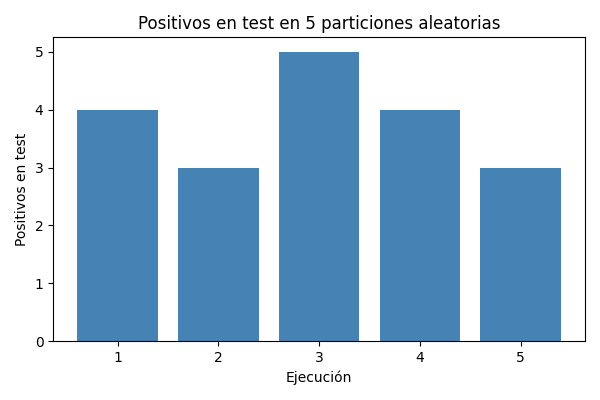
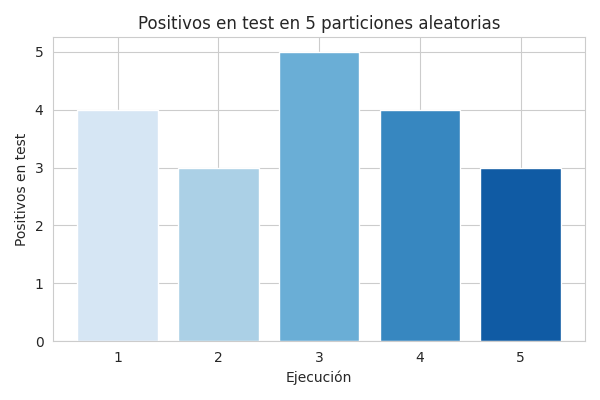
feat: update graphics.py

diff --git a/P3-documentos/python/graficas.py b/P3-documentos/python/graficas.py
@@ -3,23 +3,23 @@ import matplotlib.pyplot as plt
 import seaborn as sns
 import os
 
-# Crear carpeta outputs si no existe
-os.makedirs("outputs", exist_ok=True)
+
+sns.set_style("whitegrid")
 
 # ============================
 # TAREA 1 — Gráfica positivos test
 # ============================
 
-df1 = pd.read_csv("outputs/tarea1_resultados.csv")
+df1 = pd.read_csv("../outputs/tarea1_resultados.csv")
 
 plt.figure(figsize=(6,4))
-plt.bar(df1["ejecucion"], df1["positivos_test"], color="steelblue")
+plt.bar(df1["ejecucion"], df1["positivos_test"], color=sns.color_palette("Blues", 5))
 plt.xlabel("Ejecución")
 plt.ylabel("Positivos en test")
 plt.title("Positivos en test en 5 particiones aleatorias")
 plt.xticks(df1["ejecucion"])
 plt.tight_layout()
-plt.savefig("outputs/tarea1_positivos_test_aleatorio.png")
+plt.savefig("../outputs/tarea1_positivos_test_aleatorio.png")
 plt.close()
 
 
@@ -27,17 +27,17 @@ plt.close()
 # TAREA 2 — Proporción por fold
 # ============================
 
-df2 = pd.read_csv("outputs/tarea2_folds.csv")
+df2 = pd.read_csv("../outputs/tarea2_folds.csv")
 
 plt.figure(figsize=(6,4))
-plt.plot(df2["fold"], df2["proporcion_clase1"], marker="o", color="darkgreen")
+plt.plot(df2["fold"], df2["proporcion_clase1"], marker="o", color=sns.color_palette("Blues", 8)[5])
 plt.xlabel("Fold")
 plt.ylabel("Proporción clase 1")
 plt.title("Proporción de clase 1 por fold (StratifiedKFold)")
 plt.ylim(0, 0.05)
 plt.xticks(df2["fold"])
 plt.tight_layout()
-plt.savefig("outputs/tarea2_proporcion_folds_estratificado.png")
+plt.savefig("../outputs/tarea2_proporcion_folds_estratificado.png")
 plt.close()
 
 
@@ -45,61 +45,104 @@ plt.close()
 # TAREA 3 — Boxplots Accuracy y F1
 # ============================
 
-df3 = pd.read_csv("outputs/tarea3_metricas.csv")
+df3 = pd.read_csv("../outputs/tarea3_metricas.csv")
 
-# Accuracy
+# ----------------------------
+# 1. Accuracy — puntos con barras de error
+# ----------------------------
 plt.figure(figsize=(6,4))
-plt.bar(df3["metodo"], df3["accuracy_media"], yerr=df3["accuracy_std"],
-        capsize=5, color=["orange", "purple"])
+plt.errorbar(
+    df3["metodo"],
+    df3["accuracy_media"],
+    yerr=df3["accuracy_std"],
+    fmt="o",
+    capsize=6,
+    markersize=9,
+    linewidth=2,
+    color=sns.color_palette("Blues", 5)[3],
+    ecolor=sns.color_palette("Blues", 5)[1]
+)
 plt.ylabel("Accuracy")
-plt.title("Accuracy: media y desviación")
+plt.title("Accuracy: media y desviación típica")
 plt.tight_layout()
-plt.savefig("outputs/tarea3_boxplot_accuracy.png")
+plt.savefig("../outputs/tarea3_accuracy_errorpoints.png")
 plt.close()
 
-# F1
+# ----------------------------
+# 2. F1 — puntos con barras de error
+# ----------------------------
 plt.figure(figsize=(6,4))
-plt.bar(df3["metodo"], df3["f1_media"], yerr=df3["f1_std"],
-        capsize=5, color=["orange", "purple"])
+plt.errorbar(
+    df3["metodo"],
+    df3["f1_media"],
+    yerr=df3["f1_std"],
+    fmt="o",
+    capsize=6,
+    markersize=9,
+    linewidth=2,
+    color=sns.color_palette("Blues", 5)[4],
+    ecolor=sns.color_palette("Blues", 5)[2]
+)
 plt.ylabel("F1-score")
-plt.title("F1-score: media y desviación")
+plt.title("F1-score: media y desviación típica")
 plt.tight_layout()
-plt.savefig("outputs/tarea3_boxplot_f1.png")
+plt.savefig("../outputs/tarea3_f1_errorpoints.png")
 plt.close()
 
-
+# ----------------------------
+# 3. Gráfica de barras — desviaciones típicas
+# ----------------------------
+plt.figure(figsize=(6,4))
+plt.bar(
+    df3["metodo"],
+    df3["accuracy_std"],
+    color=sns.color_palette("Blues", 5)[2],
+    alpha=0.8,
+    label="Accuracy std"
+)
+plt.bar(
+    df3["metodo"],
+    df3["f1_std"],
+    color=sns.color_palette("Blues", 5)[4],
+    alpha=0.8,
+    label="F1 std"
+)
+plt.ylabel("Desviación típica")
+plt.title("Comparativa de desviación típica (Accuracy y F1)")
+plt.legend()
+plt.tight_layout()
+plt.savefig("../outputs/tarea3_std_barras.png")
+plt.close()
 # ============================
 # TAREA 4 — Leakage
 # ============================
 
-df4 = pd.read_csv("outputs/tarea4_comparativa.csv")
+df4 = pd.read_csv("../outputs/tarea4_comparativa.csv")
 
 # Accuracy con y sin trampa
 plt.figure(figsize=(6,4))
-plt.bar(df4["escenario"], df4["accuracy"], color=["red", "green"])
+plt.bar(df4["escenario"], df4["accuracy"], color=sns.color_palette("Blues", 3))
 plt.ylabel("Accuracy")
 plt.title("Accuracy con y sin variable trampa")
 plt.tight_layout()
-plt.savefig("outputs/tarea4_accuracy_leakage.png")
+plt.savefig("../outputs/tarea4_accuracy_leakage.png")
 plt.close()
 
 # Correlaciones
-df = pd.read_csv("data/pacientes_riesgo.csv")
+df = pd.read_csv("../data/pacientes_riesgo.csv")
 corr = df.corr(numeric_only=True)["Clase"].sort_values(ascending=False)
 
 plt.figure(figsize=(7,4))
 sns.barplot(
     x=corr.index,
     y=corr.values,
-    hue=corr.index,    
-    palette="viridis",
-    legend=False    
+    palette="Blues"
 )
 plt.xticks(rotation=45)
 plt.ylabel("Correlación con Clase")
 plt.title("Correlaciones con la clase (detección de leakage)")
 plt.tight_layout()
-plt.savefig("outputs/tarea4_correlaciones_leakage.png")
+plt.savefig("../outputs/tarea4_correlaciones_leakage.png")
 plt.close()
 
-print("✔ Todas las gráficas se han generado correctamente en outputs/")
+print("Todas las gráficas se han generado correctamente en tonos azules.")

diff --git a/P3-documentos/docs/Cuaderno_Laboratorio_P3_template.tex b/P3-documentos/docs/Cuaderno_Laboratorio_P3_template.tex
@@ -86,27 +86,48 @@ Explica por qué \texttt{StratifiedKFold} es más adecuado que una partición al
 \hline
 Método & Accuracy media & std(Accuracy) & F1 media & std(F1) \\
 \hline
-KFold & \underline{\hspace{2cm}} & \underline{\hspace{2cm}} & \underline{\hspace{2cm}} & \underline{\hspace{2cm}} \\
-StratifiedKFold & \underline{\hspace{2cm}} & \underline{\hspace{2cm}} & \underline{\hspace{2cm}} & \underline{\hspace{2cm}} \\
+KFold & 0.991 & 0.016 & 0.800 & 0.310 \\
+StratifiedKFold & 0.997 & 0.002 & 0.914 & 0.070 \\
 \hline
 \end{tabular}
 \end{center}
 
-\begin{center}
-\includegraphics[width=0.85\linewidth]{outputs/tarea3_boxplot_accuracy.png}
-\end{center}
+\begin{figure}[H]
+    \centering
+    \includegraphics[width=0.85\linewidth]{outputs/tarea3_accuracy_errorpoints.png}
+    \caption{Accuracy: media y desviación típica para KFold y StratifiedKFold.}
+    \label{fig:t3_accuracy}
+\end{figure}
 
-\begin{center}
-\includegraphics[width=0.85\linewidth]{outputs/tarea3_boxplot_f1.png}
-\end{center}
+\begin{figure}[H]
+    \centering
+    \includegraphics[width=0.85\linewidth]{outputs/tarea3_f1_errorpoints.png}
+    \caption{F1-score: media y desviación típica para KFold y StratifiedKFold.}
+    \label{fig:t3_f1}
+\end{figure}
+
+\begin{figure}[H]
+    \centering
+    \includegraphics[width=0.85\linewidth]{outputs/tarea3_std_barras.png}
+    \caption{Comparativa de desviación típica en Accuracy y F1 entre ambos métodos.}
+    \label{fig:t3_std}
+\end{figure}
+
+\vspace{0.6cm}
 
 \noindent\textbf{Interpretación:}
-\begin{itemize}
-    \item ¿Qué método produce métricas más estables?
-    \item ¿Dónde se nota más la mejora, en Accuracy o en F1?
-\end{itemize}
 
-\vspace{1.4cm}
+Las tres gráficas que hemos generado permiten ver de forma muy clara la diferencia de estabilidad entre KFold y StratifiedKFold. En un problema desbalanceado, una partición aleatoria puede generar folds con muy pocos ejemplos de la clase positiva, lo que hace que las métricas cambien mucho de una ejecución a otra. Cuando se mantiene la proporción de clases en cada fold, esta variabilidad desaparece casi por completo. Por eso, el método que produce métricas más estables es \textbf{StratifiedKFold}.
+
+En la gráfica de Accuracy (Figura~\ref{fig:t3_accuracy}) se aprecia que ambos métodos alcanzan valores altos, pero la dispersión de KFold es mayor. Esto indica que el rendimiento de KFold cambia según cómo se repartan los datos en cada fold. Aunque la diferencia en Accuracy no es muy grande, sí se nota que este método depende más del azar y que sus resultados son menos estables.
+
+En la gráfica del F1-score (Figura~\ref{fig:t3_f1}) la diferencia entre ambos métodos se aprecia todavía mejor. El F1 es una métrica muy sensible a cómo se reparten las clases, y por eso cualquier desequilibrio en los folds afecta mucho a su valor. En KFold se observa una variabilidad muy grande: en algunas ejecuciones el modelo detecta bien la clase positiva, y en otras prácticamente no la detecta. En cambio, StratifiedKFold mantiene valores de F1 más altos y, sobre todo, mucho más estables. Esto indica que la estratificación ofrece una evaluación más fiable y refleja mejor el comportamiento real del modelo.
+
+La gráfica comparativa de desviaciones típicas (Figura~\ref{fig:t3_std}) resume perfectamente esta idea: StratifiedKFold reduce la varianza tanto en Accuracy como en F1, pero la mejora es especialmente evidente en F1. Esto tiene sentido, porque F1 es la métrica que más sufre cuando la clase positiva aparece de forma irregular en los folds. Por tanto, \textbf{la mejora se nota mucho más en F1 que en Accuracy}.
+
+En resumen, las gráficas muestran que controlar la proporción de clases en cada fold no cambia el modelo, pero sí cambia la calidad de la evaluación, haciéndola más estable, más fiable y menos dependiente del azar.
+
+\vspace{0.2cm}
 
 \section{Tarea 4 — Detección de data leakage}
 
